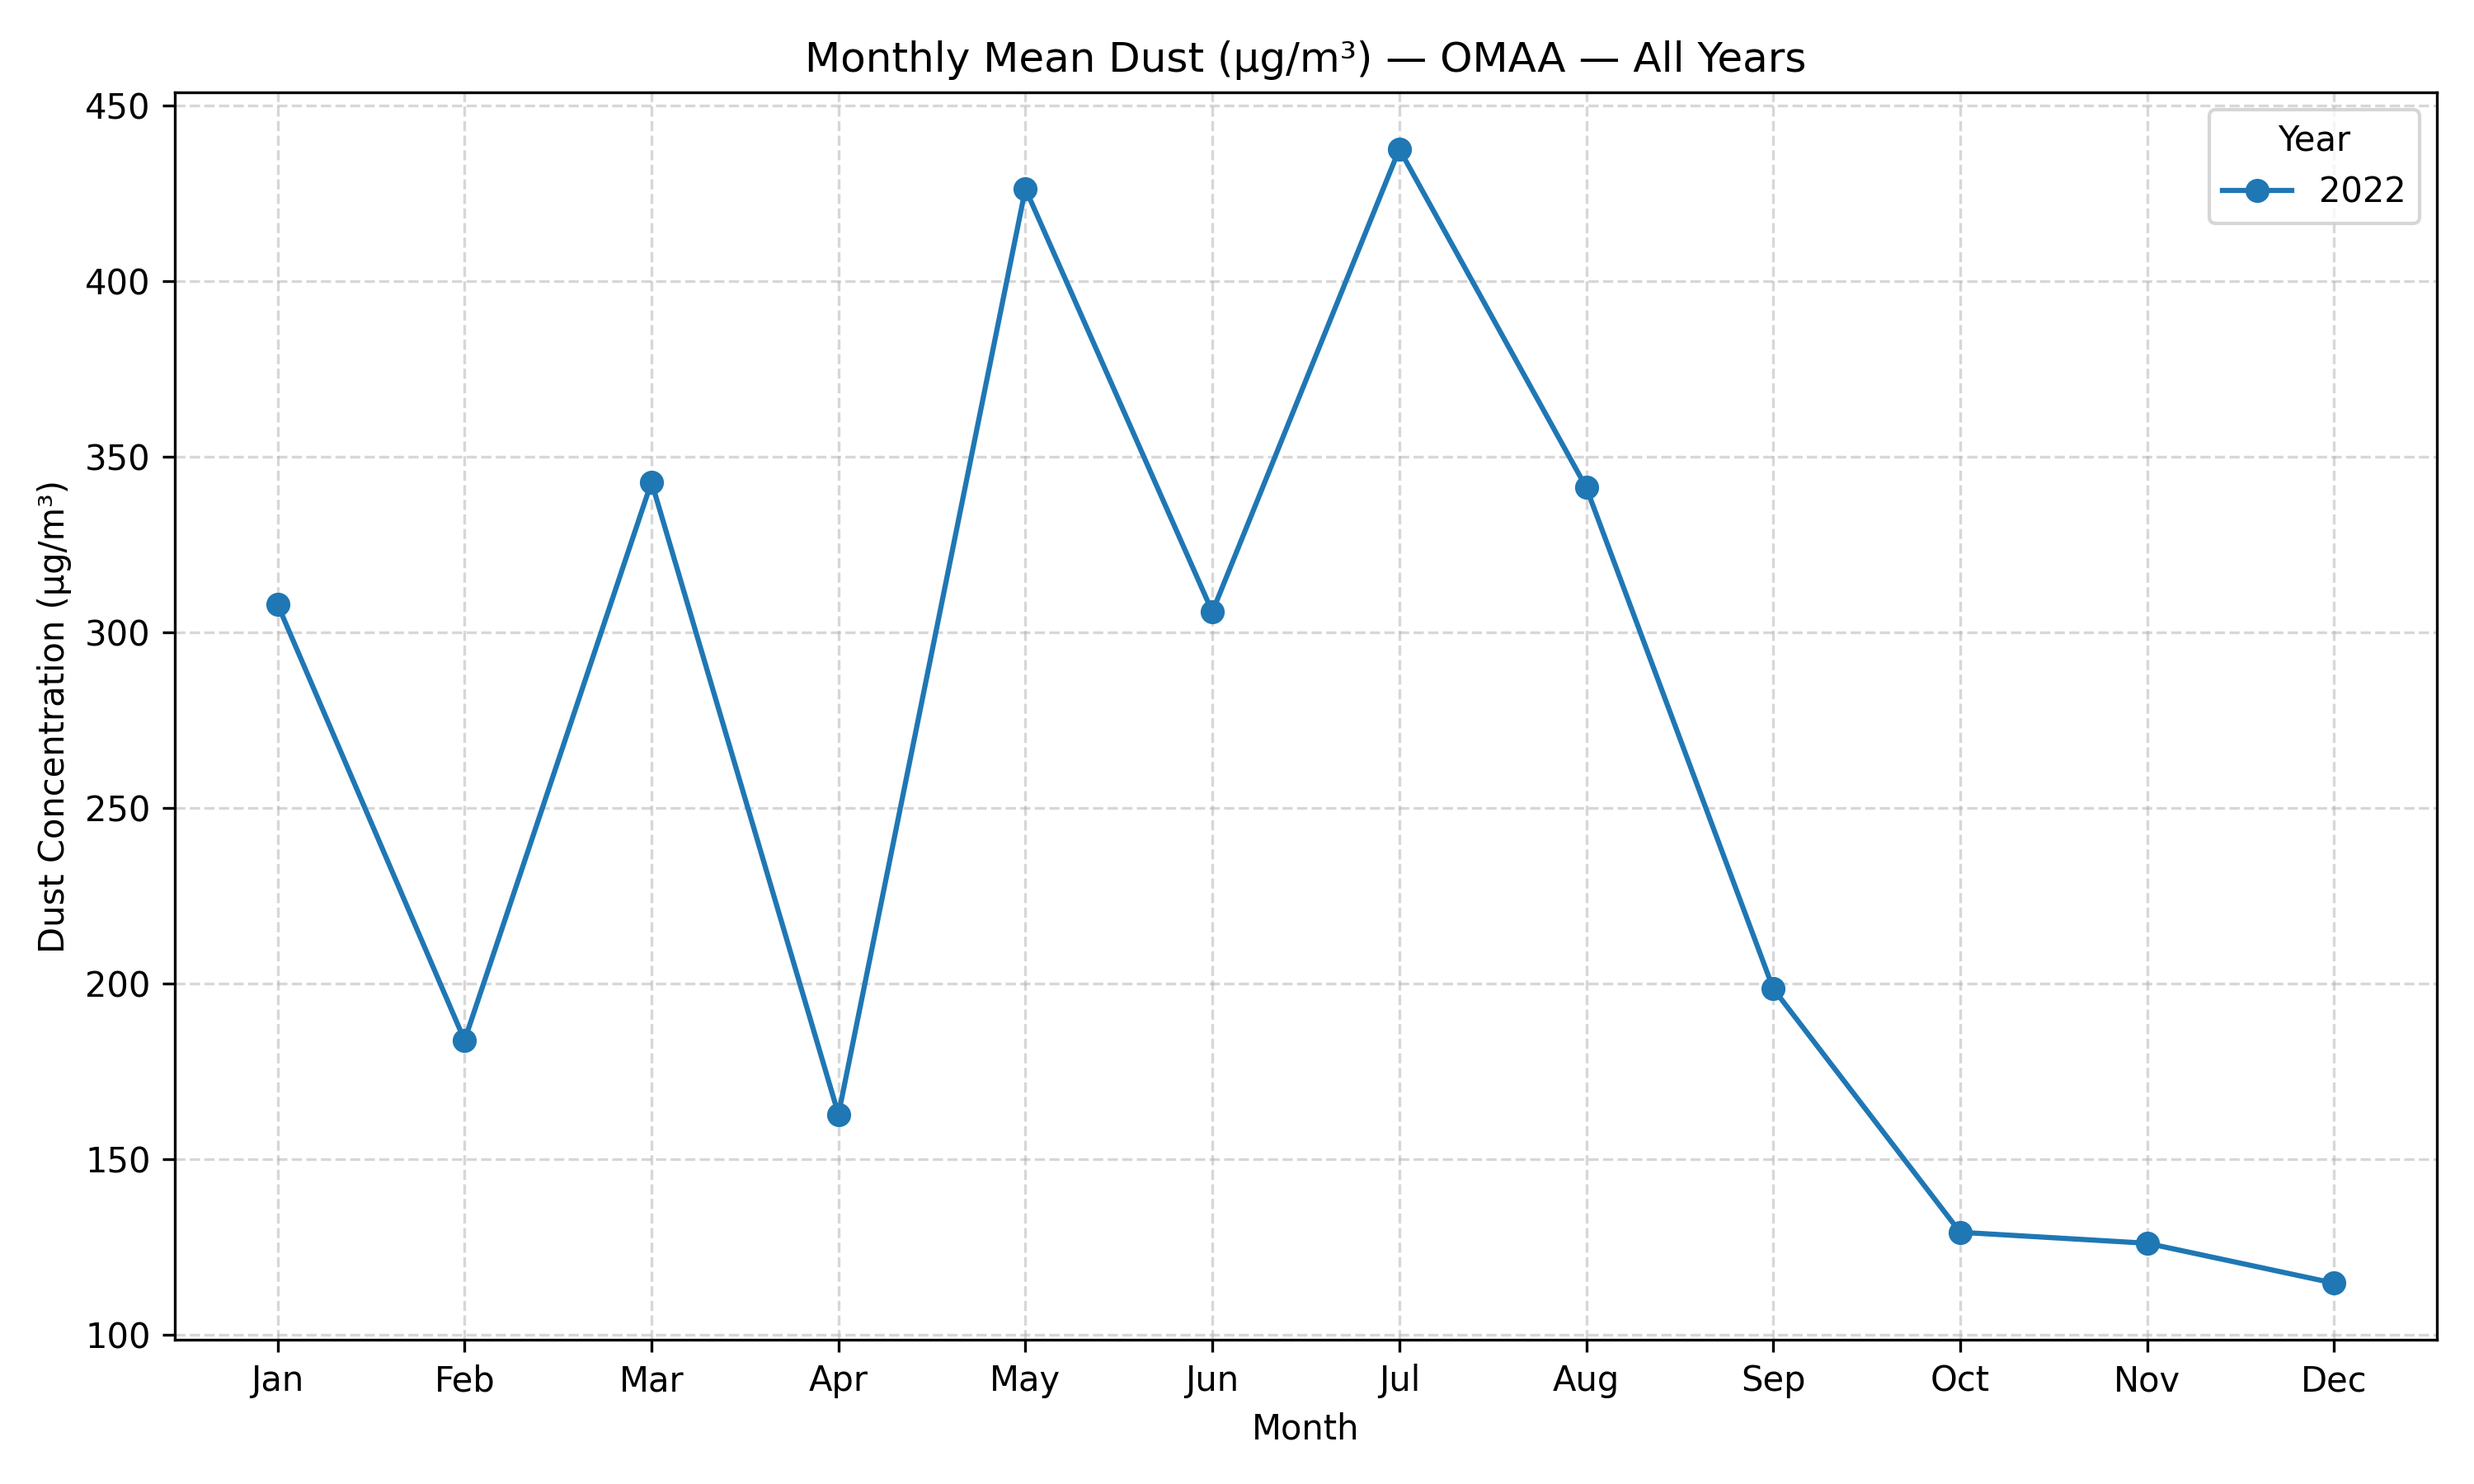
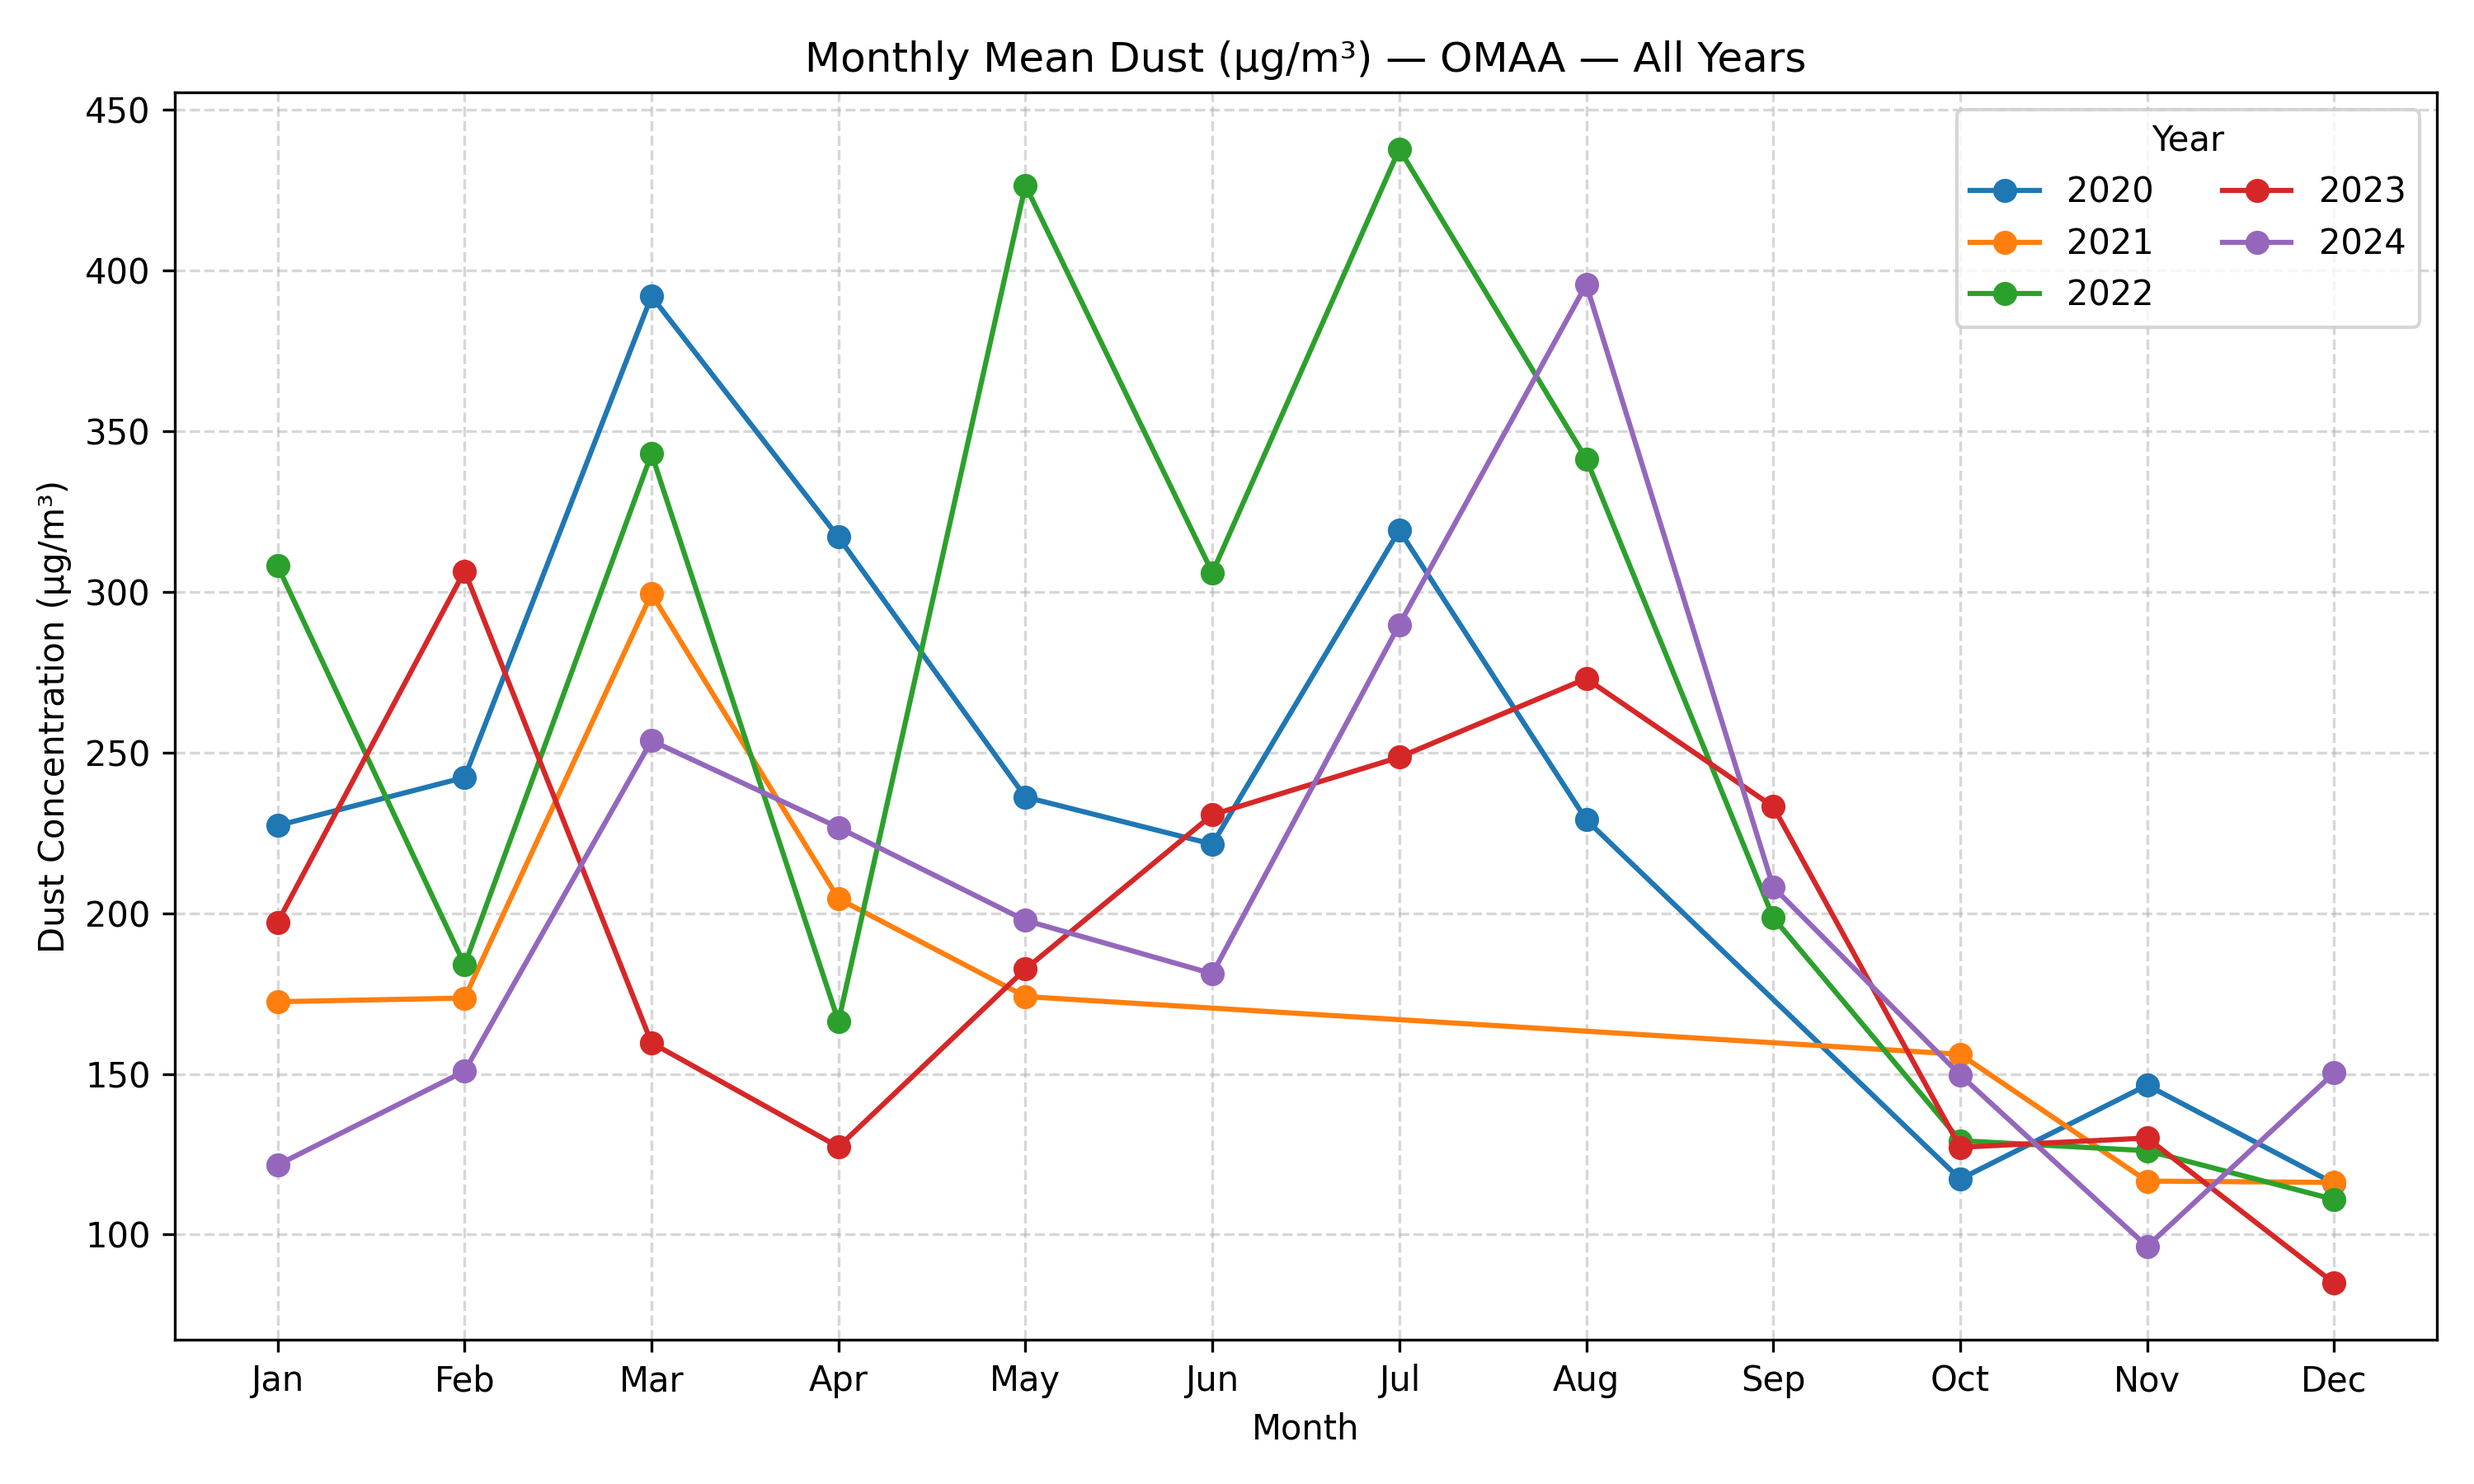
2020-2044 Processed Fies

diff --git a/monthly_means_airports_analysis.py b/monthly_means_airports_analysis.py
@@ -23,10 +23,10 @@ Edit the USER INPUTS below and run:
 
 # ================== USER INPUTS (EDIT THESE) ==================
 START_YEAR = 2020
-END_YEAR   = 2023
+END_YEAR   = 2024
 
 # Output directories
-OUTPUT_DATA_DIR = r"D:\MODIS Data"     # where NetCDF/CSVs will be cached
+OUTPUT_DATA_DIR = r"D:\MODIS_Data"     # where NetCDF/CSVs will be cached
 OUTPUT_FIG_DIR  = r"C:\Users\y46144ma\Documents\GitHub\Dusty\Dust Plots"   # where PNGs/CSVs will be saved
 
 # Airports to track (ICAO: (lat, lon))
@@ -42,7 +42,7 @@ AIRPORTS = {
 BBOX_PAD_DEG = 1.0
 
 # Save an additional summary CSV?
-SUMMARY_CSV = r"C:\Users\y46144ma\Documents\GitHub\Dusty\Dust Plots" # set to None to skip
+SUMMARY_CSV = r"C:\Users\y46144ma\Documents\GitHub\Dusty\Dust Plots\dust_summary.csv" # set to None to skip
 # =============================================================
 
 import os
